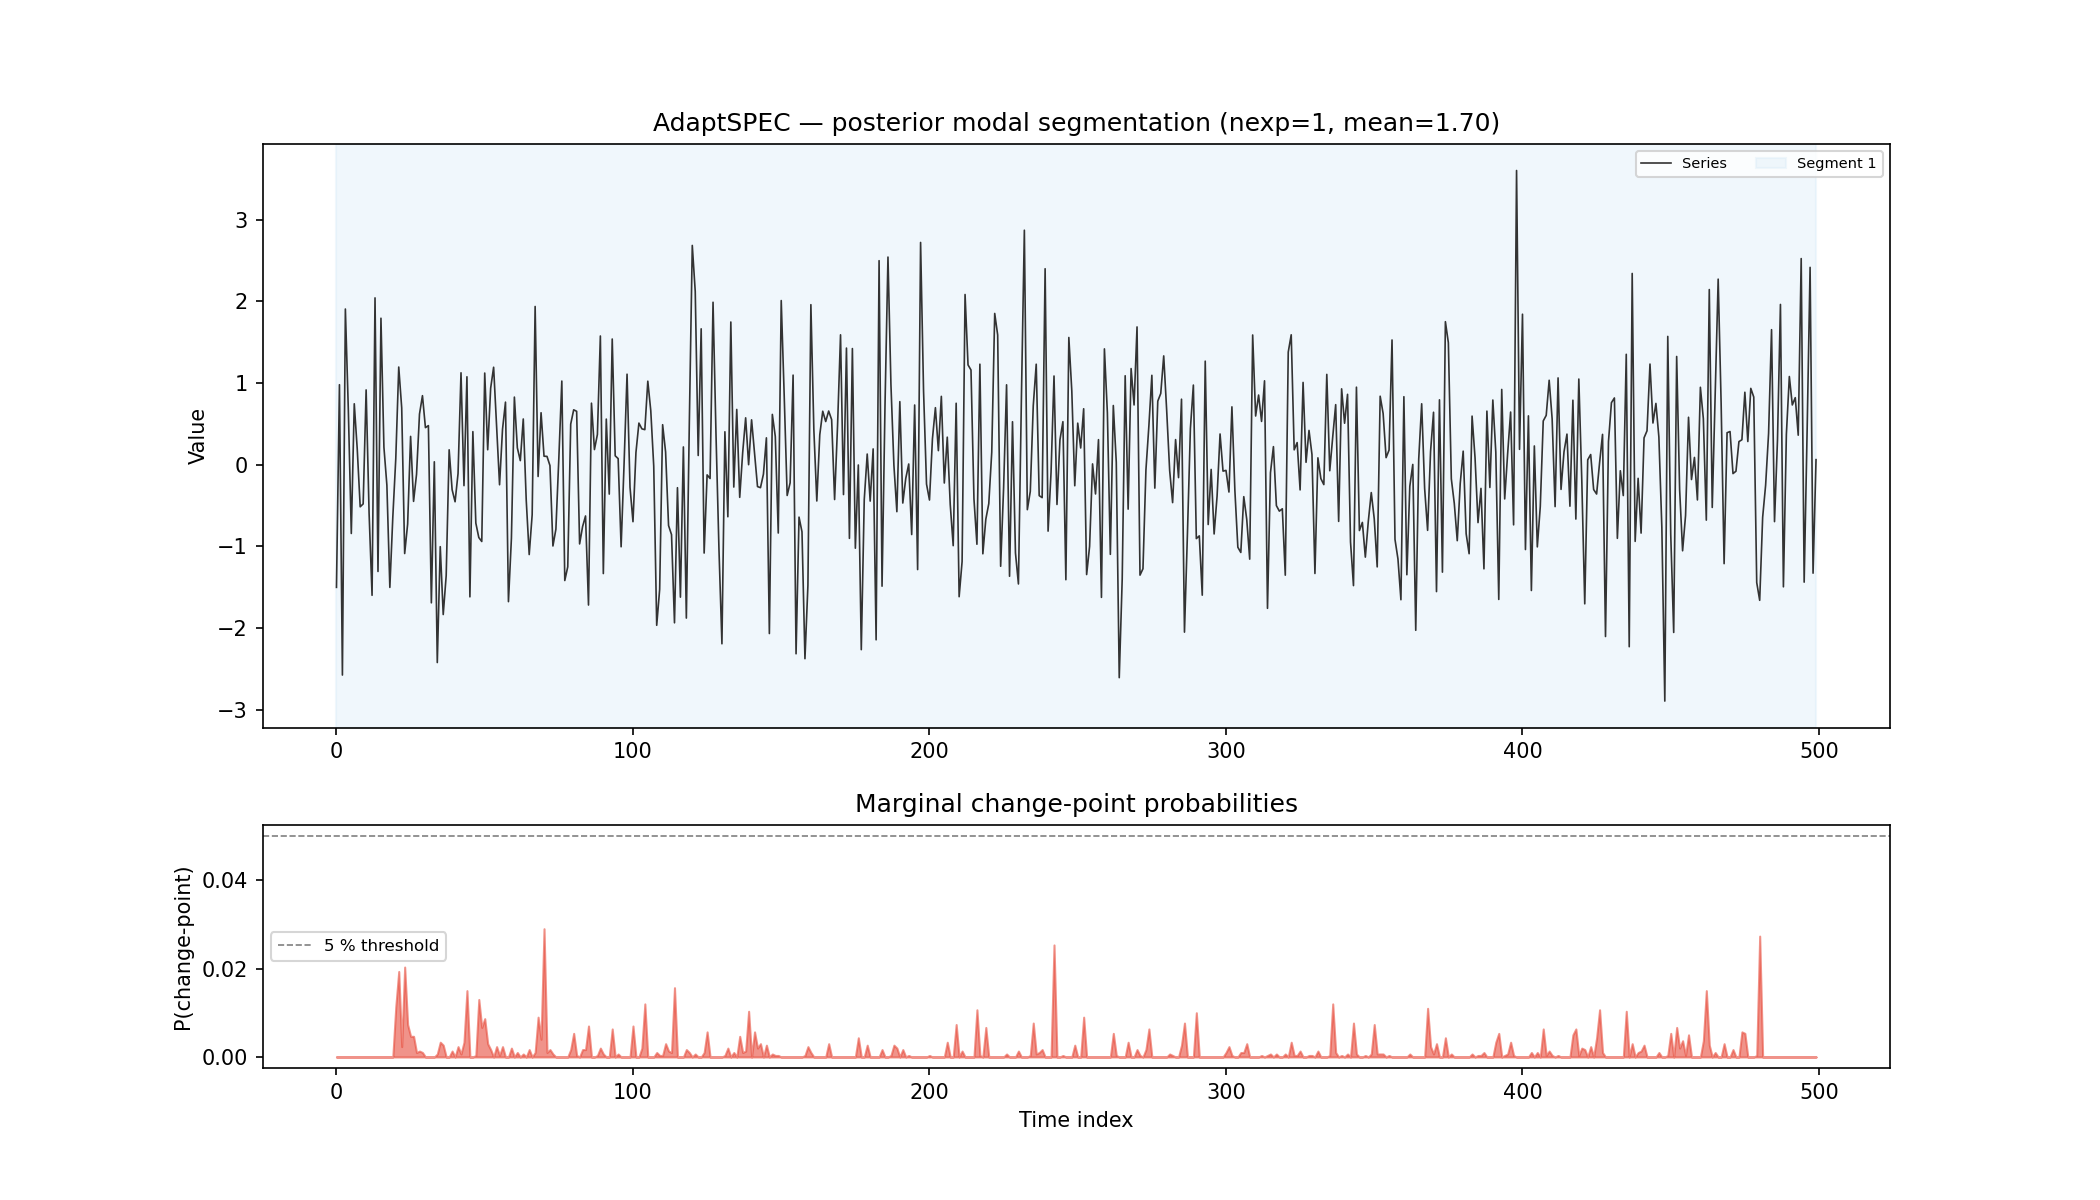
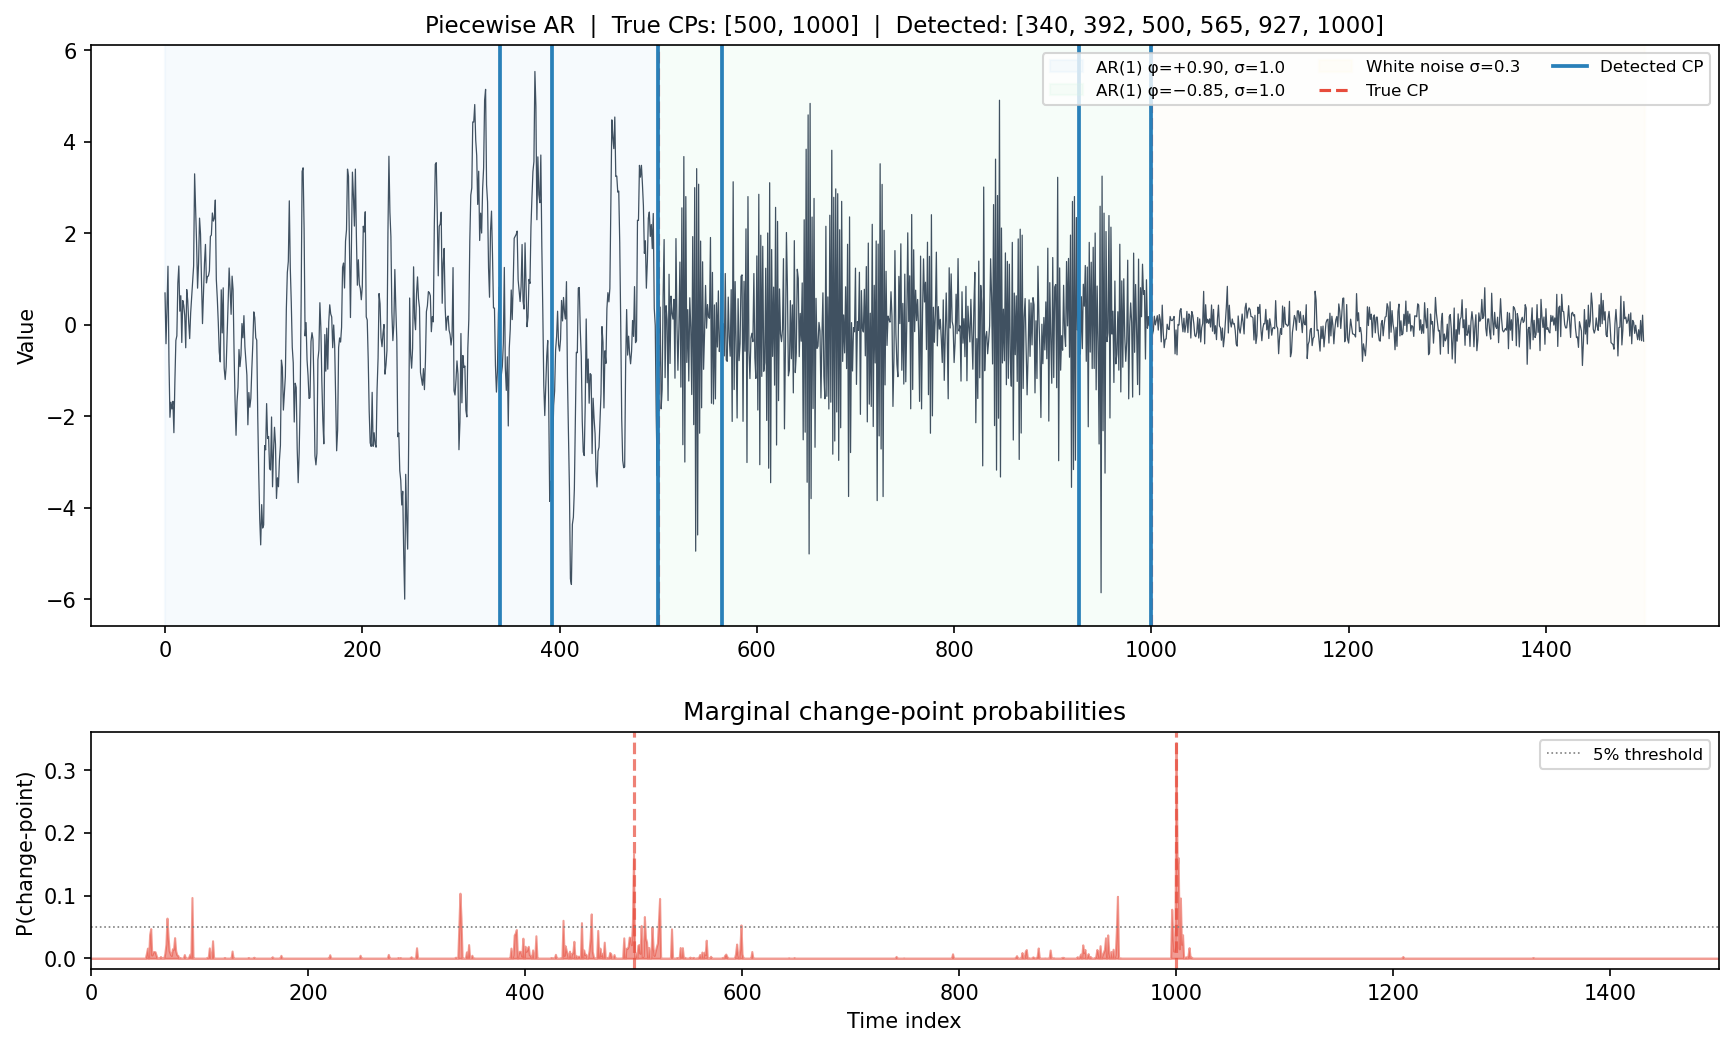
Add files via upload
update for adaptspec code

diff --git a/Adaptspec_LLM_Experiments/Log_returns_company_test.py b/Adaptspec_LLM_Experiments/Log_returns_company_test.py
@@ -1,0 +1,85 @@
+import os
+import numpy as np
+import pandas as pd
+import matplotlib.pyplot as plt
+import matplotlib.gridspec as gridspec
+from mpl_toolkits.mplot3d import Axes3D
+from matplotlib import cm
+from adaptspec import adaptspec, summarise
+
+# ── CHANGE THIS ───────────────────────────────────────────────────────────────
+DATA_DIR = r"C:\Users\60848\OneDrive - Bain\Desktop\Genome_code_260514\global_platform_data\share_price\USA"
+FILE     = "_AAPL_price.csv"
+# ─────────────────────────────────────────────────────────────────────────────
+
+ticker = FILE.replace("_price.csv", "").lstrip("_")
+df = pd.read_csv(os.path.join(DATA_DIR, FILE), parse_dates=["Date"])
+df = df.sort_values("Date").dropna(subset=["Price"])
+df = df[df["Date"] >= pd.Timestamp("2005-01-01")].reset_index(drop=True)
+
+log_returns = np.diff(np.log(df["Price"].values))
+dates = df["Date"].values[1:]
+
+result  = adaptspec(log_returns, nexp_max=20, nbeta=20, niter=10000, nburn=5000, tmin=90, seed=42, verbose=True)
+summary = summarise(result)
+
+changepoints = [b[1] for b in summary["segment_boundaries"][:-1]]
+cp_dates     = [pd.Timestamp(dates[cp]).date() for cp in changepoints]
+
+# ── PLOT 1: log returns + changepoint proba ───────────────────────────────────
+fig, (ax1, ax2) = plt.subplots(2, 1, figsize=(16, 8), sharex=True)
+
+ax1.plot(dates, log_returns, lw=0.7, color="#2c3e50")
+for cp, cpd in zip(changepoints, cp_dates):
+    ax1.axvline(pd.Timestamp(dates[cp]), color="red", lw=1.5, ls="--")
+    ax1.text(pd.Timestamp(dates[cp]), ax1.get_ylim()[1], str(cpd),
+             rotation=90, fontsize=7, color="red", va="top")
+ax1.set_title(f"{ticker}  |  modal segments={summary['modal_nexp']}  mean={summary['mean_nexp']:.2f}")
+ax1.set_ylabel("Log return")
+
+ax2.fill_between(dates, summary["changepoint_proba"], color="#e74c3c", alpha=0.6)
+ax2.axhline(0.05, color="grey", lw=0.8, ls=":")
+for cp in changepoints:
+    ax2.axvline(pd.Timestamp(dates[cp]), color="red", lw=1.5, ls="--", alpha=0.6)
+ax2.set_ylabel("P(changepoint)")
+
+plt.tight_layout()
+plt.savefig(os.path.join(DATA_DIR, f"{ticker}_returns.png"), dpi=150, bbox_inches="tight")
+plt.show()
+
+# ── PLOT 2: time-varying power spectrum surface ───────────────────────────────
+tvpsd = summary["tvpsd"]
+freq  = summary["freq_hat"]
+time  = np.linspace(pd.Timestamp(dates[0]).year + pd.Timestamp(dates[0]).month/12,
+                    pd.Timestamp(dates[-1]).year + pd.Timestamp(dates[-1]).month/12,
+                    len(dates))
+
+# Downsample time axis for surface plot (every 10th point)
+step = 10
+T = time[::step]
+Z = tvpsd[::step, :]
+X, Y = np.meshgrid(freq, T)
+
+fig = plt.figure(figsize=(14, 8))
+ax  = fig.add_subplot(111, projection="3d")
+ax.view_init(35, 310)
+ax.plot_surface(X, Y, Z, cmap=cm.plasma, linewidth=0.2, antialiased=True)
+ax.set_xlabel("Frequency")
+ax.set_ylabel("Time")
+ax.set_zlabel("Log PSD")
+ax.set_title(f"{ticker} — Time-Varying Power Spectrum")
+ax.yaxis.set_major_locator(plt.MaxNLocator(4))
+
+plt.tight_layout()
+plt.savefig(os.path.join(DATA_DIR, f"{ticker}_tvpsd.png"), dpi=150, bbox_inches="tight")
+plt.show()
+
+# ── TABLE ─────────────────────────────────────────────────────────────────────
+rows = [{"changepoint": i+1, "date": cpd, "obs_index": cp,
+         "P(cp)": round(summary["changepoint_proba"][cp], 3)}
+        for i, (cp, cpd) in enumerate(zip(changepoints, cp_dates))]
+table = pd.DataFrame(rows)
+print(f"\n--- {ticker} ---")
+print(table.to_string(index=False))
+print(f"\nnexp distribution: {summary['nexp_probs']}")
+table.to_csv(os.path.join(DATA_DIR, f"{ticker}_changepoints.csv"), index=False)

diff --git a/Adaptspec_LLM_Experiments/Log_returns_australia_test.py b/Adaptspec_LLM_Experiments/Log_returns_australia_test.py
@@ -4,14 +4,14 @@ import pandas as pd
 import matplotlib.pyplot as plt
 from adaptspec import adaptspec, summarise
 
-DATA_DIR  = r"C:\Users\60848\OneDrive - Bain\Desktop\Genome_code_260514\global_platform_data\share_price\Australia"
-PLOT_DIR  = r"C:\Users\60848\OneDrive - Bain\Desktop\Genome_code_260514\global_platform_data\share_price\Australia\plots"
-START  = pd.Timestamp("2007-01-01")   # clip all series to this
-CUTOFF = pd.Timestamp("2007-01-01")   # must have data before this to be included
+DATA_DIR = r"C:\Users\60848\OneDrive - Bain\Desktop\Genome_code_260514\global_platform_data\share_price\Australia"
+PLOT_DIR = r"C:\Users\60848\OneDrive - Bain\Desktop\Genome_code_260514\global_platform_data\share_price\Australia\plots"
+START    = pd.Timestamp("2007-01-01")
+CUTOFF   = pd.Timestamp("2007-01-01")
 
 os.makedirs(PLOT_DIR, exist_ok=True)
 
-changepoints = {}
+rows = []
 
 files = [f for f in os.listdir(DATA_DIR) if f.endswith("_price.csv")]
 print(f"Found {len(files)} files")
@@ -22,47 +22,51 @@ for fname in sorted(files):
     df = pd.read_csv(os.path.join(DATA_DIR, fname), parse_dates=["Date"])
     df = df.sort_values("Date").dropna(subset=["Price"])
 
-    # must have data going back to at least 2015
     if df["Date"].min() > CUTOFF:
         print(f"SKIP {ticker} - starts {df['Date'].min().date()}")
         continue
 
-    # clip to common window
     df = df[df["Date"] >= START].reset_index(drop=True)
     log_returns = np.diff(np.log(df["Price"].values))
-    dates       = df["Date"].values[1:]   # one shorter after diff
+    dates = df["Date"].values[1:]
 
-    print(f"\nRunning {ticker} ({len(log_returns)} obs, {df['Date'].min().date()} to {df['Date'].max().date()})...")
+    print(f"\nRunning {ticker} ({len(log_returns)} obs)...")
 
-    result  = adaptspec(log_returns, nexp_max=15, nbeta=6, niter=10000, nburn=5000, tmin=45, seed=42, verbose=True)
+    result  = adaptspec(log_returns, nexp_max=20, nbeta=10, niter=2000, nburn=1000, tmin=90, seed=42, verbose=True)
     summary = summarise(result)
 
-    changepoints[ticker] = summary["modal_changepoints"]
-    print(f"  modal nexp      : {summary['modal_nexp']}")
-    print(f"  mean nexp       : {summary['mean_nexp']:.2f}")
-    print(f"  nexp dist       : {summary['nexp_probs']}")
-    print(f"  changepoints    : {changepoints[ticker]}")
-    if changepoints[ticker]:
-        for cp in changepoints[ticker]:
-            print(f"    idx={cp}  date={pd.Timestamp(dates[cp]).date()}  P={summary['changepoint_proba'][cp]:.3f}")
+    changepoints = [b[1] for b in summary["segment_boundaries"][:-1]]
 
-    # ── plot ──────────────────────────────────────────────────────────────────
+    print(f"  modal nexp: {summary['modal_nexp']}  mean nexp: {summary['mean_nexp']:.2f}")
+    print(f"  changepoints: {[pd.Timestamp(dates[cp]).date() for cp in changepoints]}")
+
+    for i, cp in enumerate(changepoints):
+        rows.append({
+            "ticker":    ticker,
+            "cp_index":  i + 1,
+            "obs_index": cp,
+            "date":      pd.Timestamp(dates[cp]).date(),
+            "probability": summary["changepoint_proba"][cp],
+        })
+
+    # plot
     fig, (ax1, ax2) = plt.subplots(2, 1, figsize=(14, 7), sharex=True)
-
     ax1.plot(dates, log_returns, lw=0.7, color="#2c3e50")
-    for cp in changepoints[ticker]:
+    for cp in changepoints:
         ax1.axvline(pd.Timestamp(dates[cp]), color="red", lw=1.5, ls="--")
-    ax1.set_title(f"{ticker}  |  modal nexp={summary['modal_nexp']}  mean nexp={summary['mean_nexp']:.2f}")
+    ax1.set_title(f"{ticker}  |  modal nexp={summary['modal_nexp']}  mean={summary['mean_nexp']:.2f}")
     ax1.set_ylabel("Log return")
-
     ax2.fill_between(dates, summary["changepoint_proba"], color="#e74c3c", alpha=0.6)
     ax2.axhline(0.05, color="grey", lw=0.8, ls=":")
     ax2.set_ylabel("P(changepoint)")
     ax2.set_xlabel("Date")
-
     plt.tight_layout()
-    # plt.savefig(os.path.join(PLOT_DIR, f"{ticker}.png"), dpi=120, bbox_inches="tight")
-    plt.show()
-    print(f"  plot saved.")
+    plt.savefig(os.path.join(PLOT_DIR, f"{ticker}.png"), dpi=120, bbox_inches="tight")
+    plt.close()
 
-print(f"\nDone. {len(changepoints)} tickers processed.")
+out = pd.DataFrame(rows)
+out.to_csv(os.path.join(DATA_DIR, "adaptspec_changepoints.csv"), index=False)
+print(f"\nDone. Saved to adaptspec_changepoints.csv")
+
+x=1
+y=2

diff --git a/Adaptspec_LLM_Experiments/adaptspec.py b/Adaptspec_LLM_Experiments/adaptspec.py
@@ -7,7 +7,6 @@ Key fixes vs original:
   4. within() nposs=3 case uses -2+new_index (not -1+new_index)
   5. birth() xi_prop for seg_cut>0: uses xi_curr[jj-1]-1+tmin+index (matches R exactly)
 """
-
 from __future__ import annotations
 from dataclasses import dataclass
 from typing import List, Optional, Tuple
@@ -496,7 +495,7 @@ def adaptspec(x, nexp_max=10, nbeta=7, niter=5000, nburn=2000, tmin=40,
     )
 
 
-def summarise(result):
+def summarise(result, nfreq_hat=50):
     nobs = result.nobs; S = len(result.nexp_samples)
     mean_nexp = result.nexp_samples.mean()
     vals, counts = np.unique(result.nexp_samples, return_counts=True)
@@ -519,6 +518,36 @@ def summarise(result):
         for t in best_xi: boundaries.append((prev, t)); prev = t
     else:
         boundaries = [(0, nobs)]
+
+    # Posterior mean log-PSD per segment (for 2D spectrum plot)
+    freq_hat = np.arange(nfreq_hat + 1) / (2 * nfreq_hat)
+    nu_mat_hat = _lin_basis_func(freq_hat, result.nbeta)
+    log_spec_hat = []
+    for seg_idx in range(modal_nexp):
+        specs = []
+        for i, beta in enumerate(result.beta_samples):
+            if result.nexp_samples[i] == modal_nexp:
+                b = beta[:, seg_idx] if beta.ndim == 2 else beta.ravel()
+                specs.append(nu_mat_hat @ b)
+        log_spec_hat.append(np.mean(specs, axis=0) if specs else np.zeros(nfreq_hat + 1))
+
+    # Time-varying PSD: (nobs, nfreq_hat+1) — average nu_mat@beta across all samples, per time point
+    tvpsd = np.zeros((nobs, nfreq_hat + 1))
+    counts_t = np.zeros(nobs)
+    for i, (beta, xi) in enumerate(zip(result.beta_samples, result.xi_samples)):
+        nexp_i = result.nexp_samples[i]
+        prev = 0
+        for seg_idx in range(nexp_i):
+            end = xi[seg_idx]
+            b = beta[:, seg_idx] if beta.ndim == 2 else beta.ravel()
+            spec = nu_mat_hat @ b
+            tvpsd[prev:end] += spec
+            counts_t[prev:end] += 1
+            prev = end
+    counts_t = np.maximum(counts_t, 1)
+    tvpsd /= counts_t[:, np.newaxis]
+
     return dict(mean_nexp=mean_nexp, nexp_probs=nexp_probs,
                 changepoint_proba=changepoint_proba, modal_changepoints=modal_cps,
-                segment_boundaries=boundaries, modal_nexp=modal_nexp)
+                segment_boundaries=boundaries, modal_nexp=modal_nexp,
+                log_spec_hat=log_spec_hat, freq_hat=freq_hat, tvpsd=tvpsd)